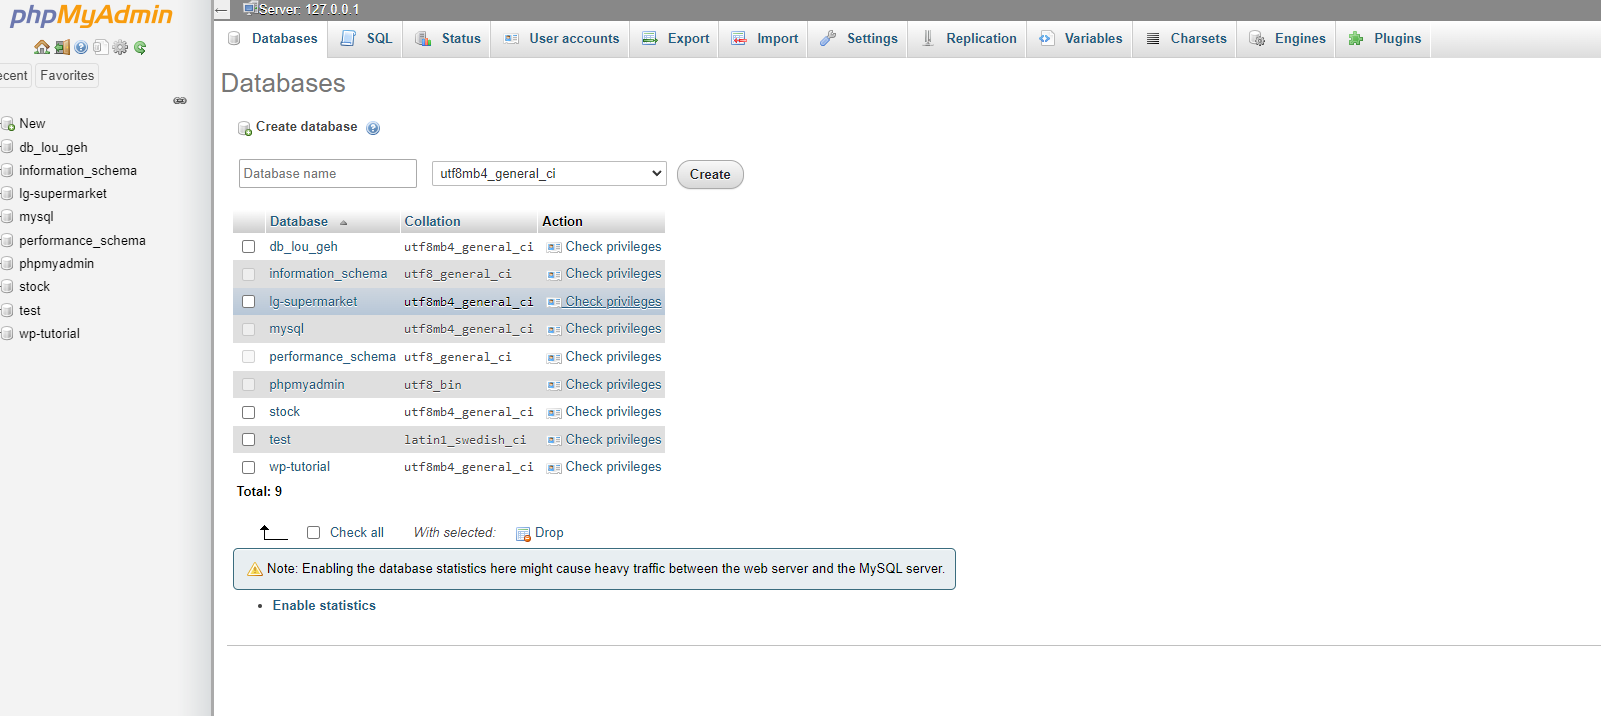
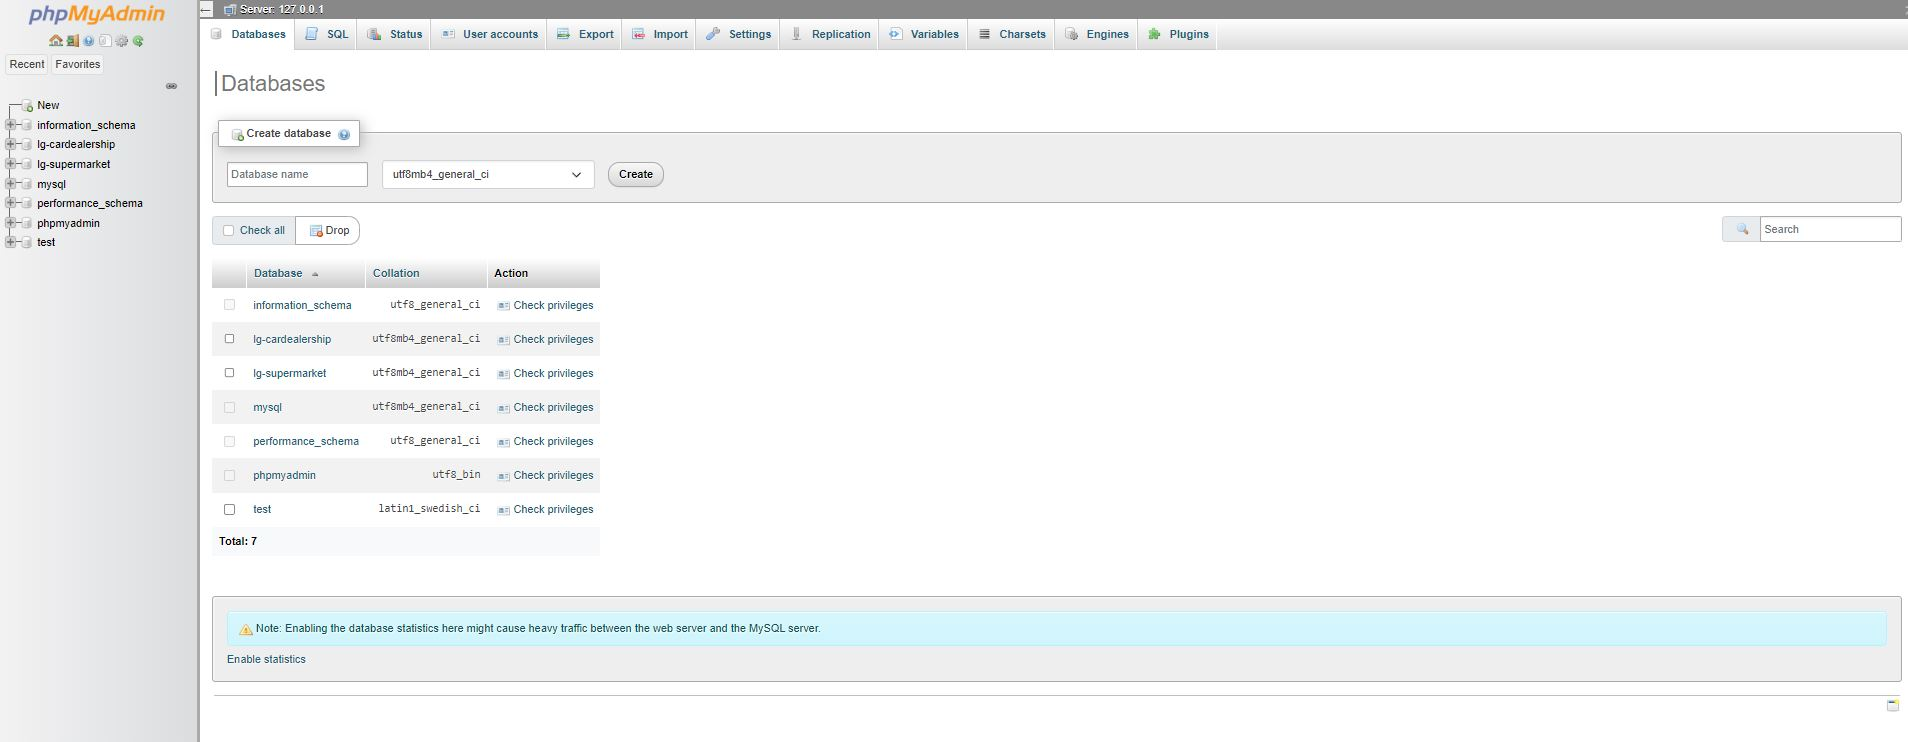
final code w/ readme

Changed region(s): [[0.0, 0.0, 1.0, 1.0], [0.9057, 0.2765, 0.9681, 0.338], [0.406, 0.2151, 0.4685, 0.2765]]

diff --git a/README.md b/README.md
@@ -1,47 +1,47 @@
 # lougeh-supermarket
 
-Lou Geh Supermarket - Assessment
-    
-   ![setup2-1](https://github.com/jerwinjames/lougeh-supermarket/blob/main/setup-guide/setup2-1.png)
+Lou Geh Car Dealership - Assessment
+
+![setup2-1](https://github.com/jerwinjames/lougeh-cardealership/blob/main/setup-guide/setup2-1.png)
 
 ## Dependencies
 
-  - Download and install XAMPP.
-  
-  - [XAMPP](https://www.apachefriends.org/download.html)
-  
-    ![setup1-1](https://github.com/jerwinjames/lougeh-supermarket/blob/main/setup-guide/setup1-1.png)
-    
-    ![setup1-2](https://github.com/jerwinjames/lougeh-supermarket/blob/main/setup-guide/setup1-2.png)
+- Download and install XAMPP.
+
+- [XAMPP](https://www.apachefriends.org/download.html)
+
+  ![setup1-1](https://github.com/jerwinjames/lougeh-cardealership/blob/main/setup-guide/setup1-1.png)
+
+  ![setup1-2](https://github.com/jerwinjames/lougeh-cardealership/blob/main/setup-guide/setup1-2.png)
 
 ## Setup Guide
 
-  1. Download the project as ZIP file and extract. Rename the folder by removing the '-main' and move it to 'your_xampp_directory/xampp/htdocs'.
-  
-     ![setup2-2](https://github.com/jerwinjames/lougeh-supermarket/blob/main/setup-guide/setup2-2.png)
-     
-  2. Open XAMPP and start Apache and MySQL.
-  
-     ![setup2-3](https://github.com/jerwinjames/lougeh-supermarket/blob/main/setup-guide/setup2-3.png)
-     
-  3. Open your browser and type 'localhost/phpmyadmin'.
-  
-     ![setup2-4](https://github.com/jerwinjames/lougeh-supermarket/blob/main/setup-guide/setup2-4.png)
-     
-  4. Go to the Databases tab, create a new database and name it 'lg-supermarket'. Press Create to create a new database.
-  
-     ![setup2-5](https://github.com/jerwinjames/lougeh-supermarket/blob/main/setup-guide/setup2-5.png)
-     
-  5. Go to the Import tab, click on choose file, and enter the database given at the project folder. Press Go to import the database.
-  
-     ![setup2-6](https://github.com/jerwinjames/lougeh-supermarket/blob/main/setup-guide/setup2-6.png)
-     
-     ![setup2-6-1](https://github.com/jerwinjames/lougeh-supermarket/blob/main/setup-guide/setup2-6-1.png)
-     
-  6. Updated database should look like this.
-  
-     ![setup2-7](https://github.com/jerwinjames/lougeh-supermarket/blob/main/setup-guide/setup2-7.png)
-     
-  7. Last, open a new tab and type 'localhost/lougeh-supermarket' to view the project.
-  
-     ![setup2-8](https://github.com/jerwinjames/lougeh-supermarket/blob/main/setup-guide/setup2-8.png)
+1. Download the project as ZIP file and extract. Rename the folder by removing the '-main' and move it to 'your_xampp_directory/xampp/htdocs'.
+
+   ![setup2-2](https://github.com/jerwinjames/lougeh-cardealership/blob/main/setup-guide/setup2-2.png)
+
+2. Open XAMPP and start Apache and MySQL.
+
+   ![setup2-3](https://github.com/jerwinjames/lougeh-cardealership/blob/main/setup-guide/setup2-3.png)
+
+3. Open your browser and type 'localhost/phpmyadmin'.
+
+   ![setup2-4](https://github.com/jerwinjames/lougeh-cardealership/blob/main/setup-guide/setup2-4.png)
+
+4. Go to the Databases tab, create a new database and name it 'lg-cardealership'. Press Create to create a new database.
+
+   ![setup2-5](https://github.com/jerwinjames/lougeh-cardealership/blob/main/setup-guide/setup2-5.png)
+
+5. Go to the Import tab, click on choose file, and enter the database given at the project folder. Press Go to import the database.
+
+   ![setup2-6](https://github.com/jerwinjames/lougeh-cardealership/blob/main/setup-guide/setup2-6.png)
+
+   ![setup2-6-1](https://github.com/jerwinjames/lougeh-cardealership/blob/main/setup-guide/setup2-6-1.png)
+
+6. Updated database should look like this.
+
+   ![setup2-7](https://github.com/jerwinjames/lougeh-cardealership/blob/main/setup-guide/setup2-7.png)
+
+7. Last, open a new tab and type 'localhost/lougeh-dealership' to view the project.
+
+   ![setup2-8](https://github.com/jerwinjames/lougeh-cardealership/blob/main/setup-guide/setup2-8.png)
